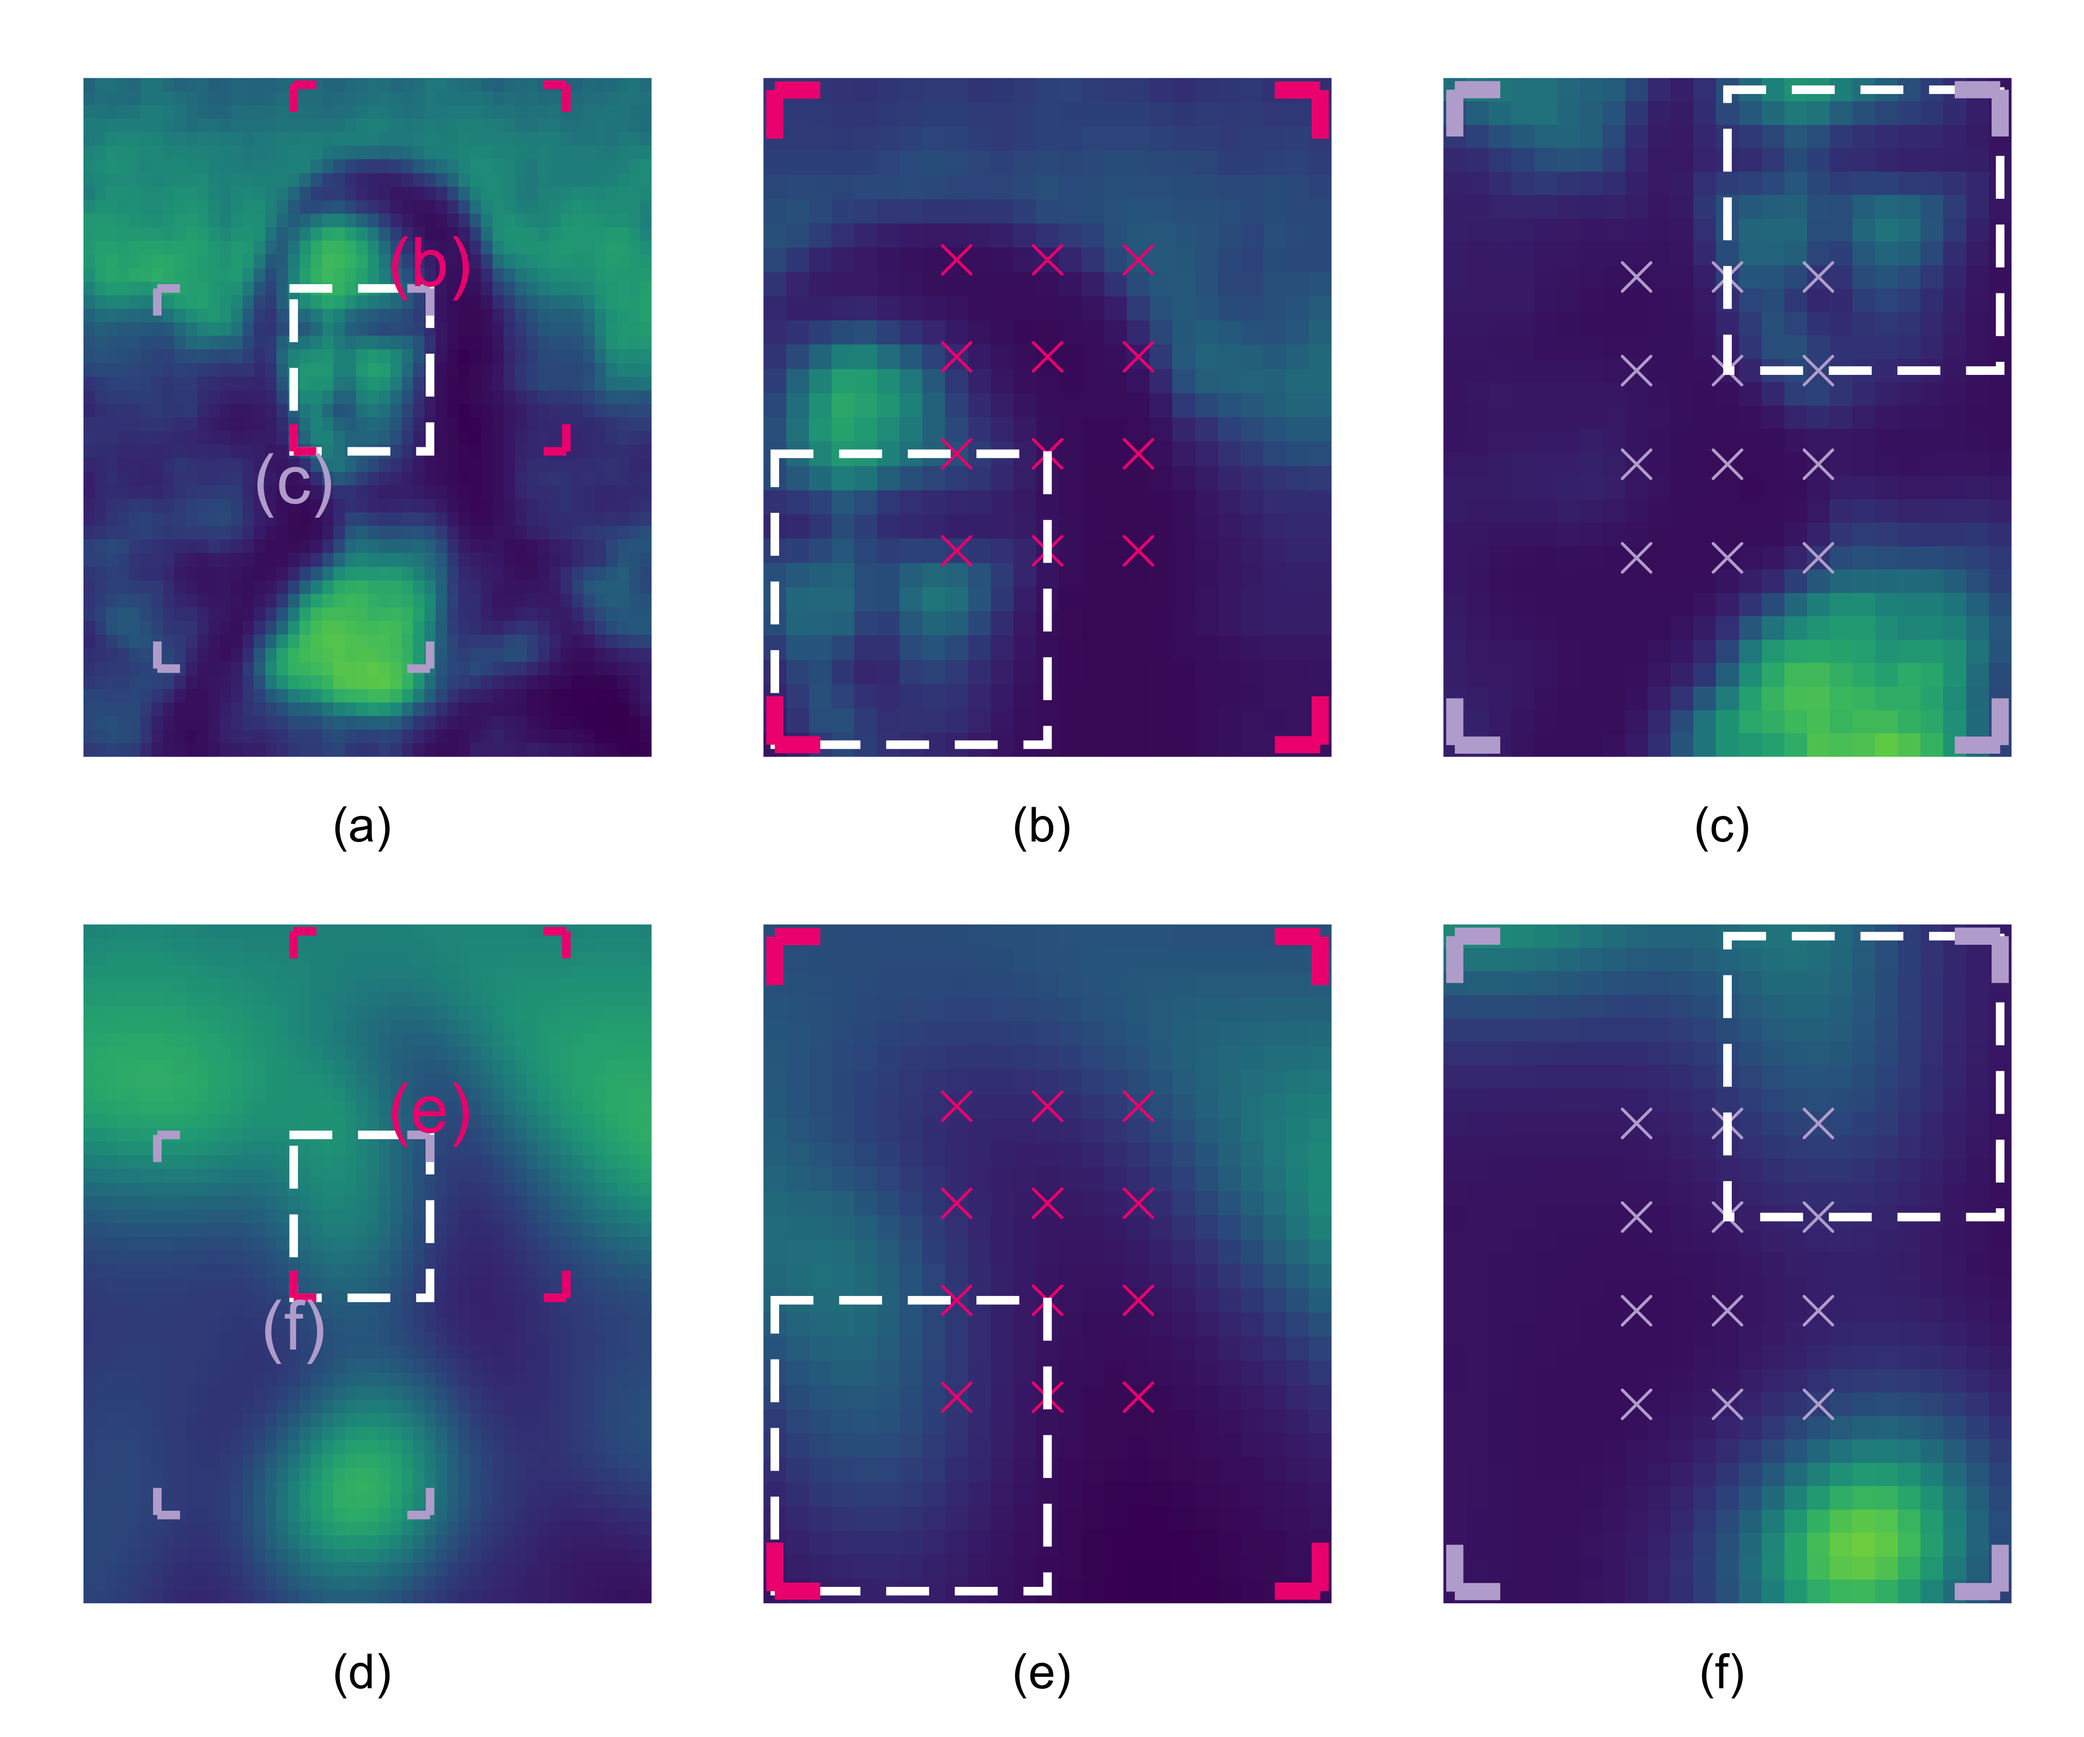
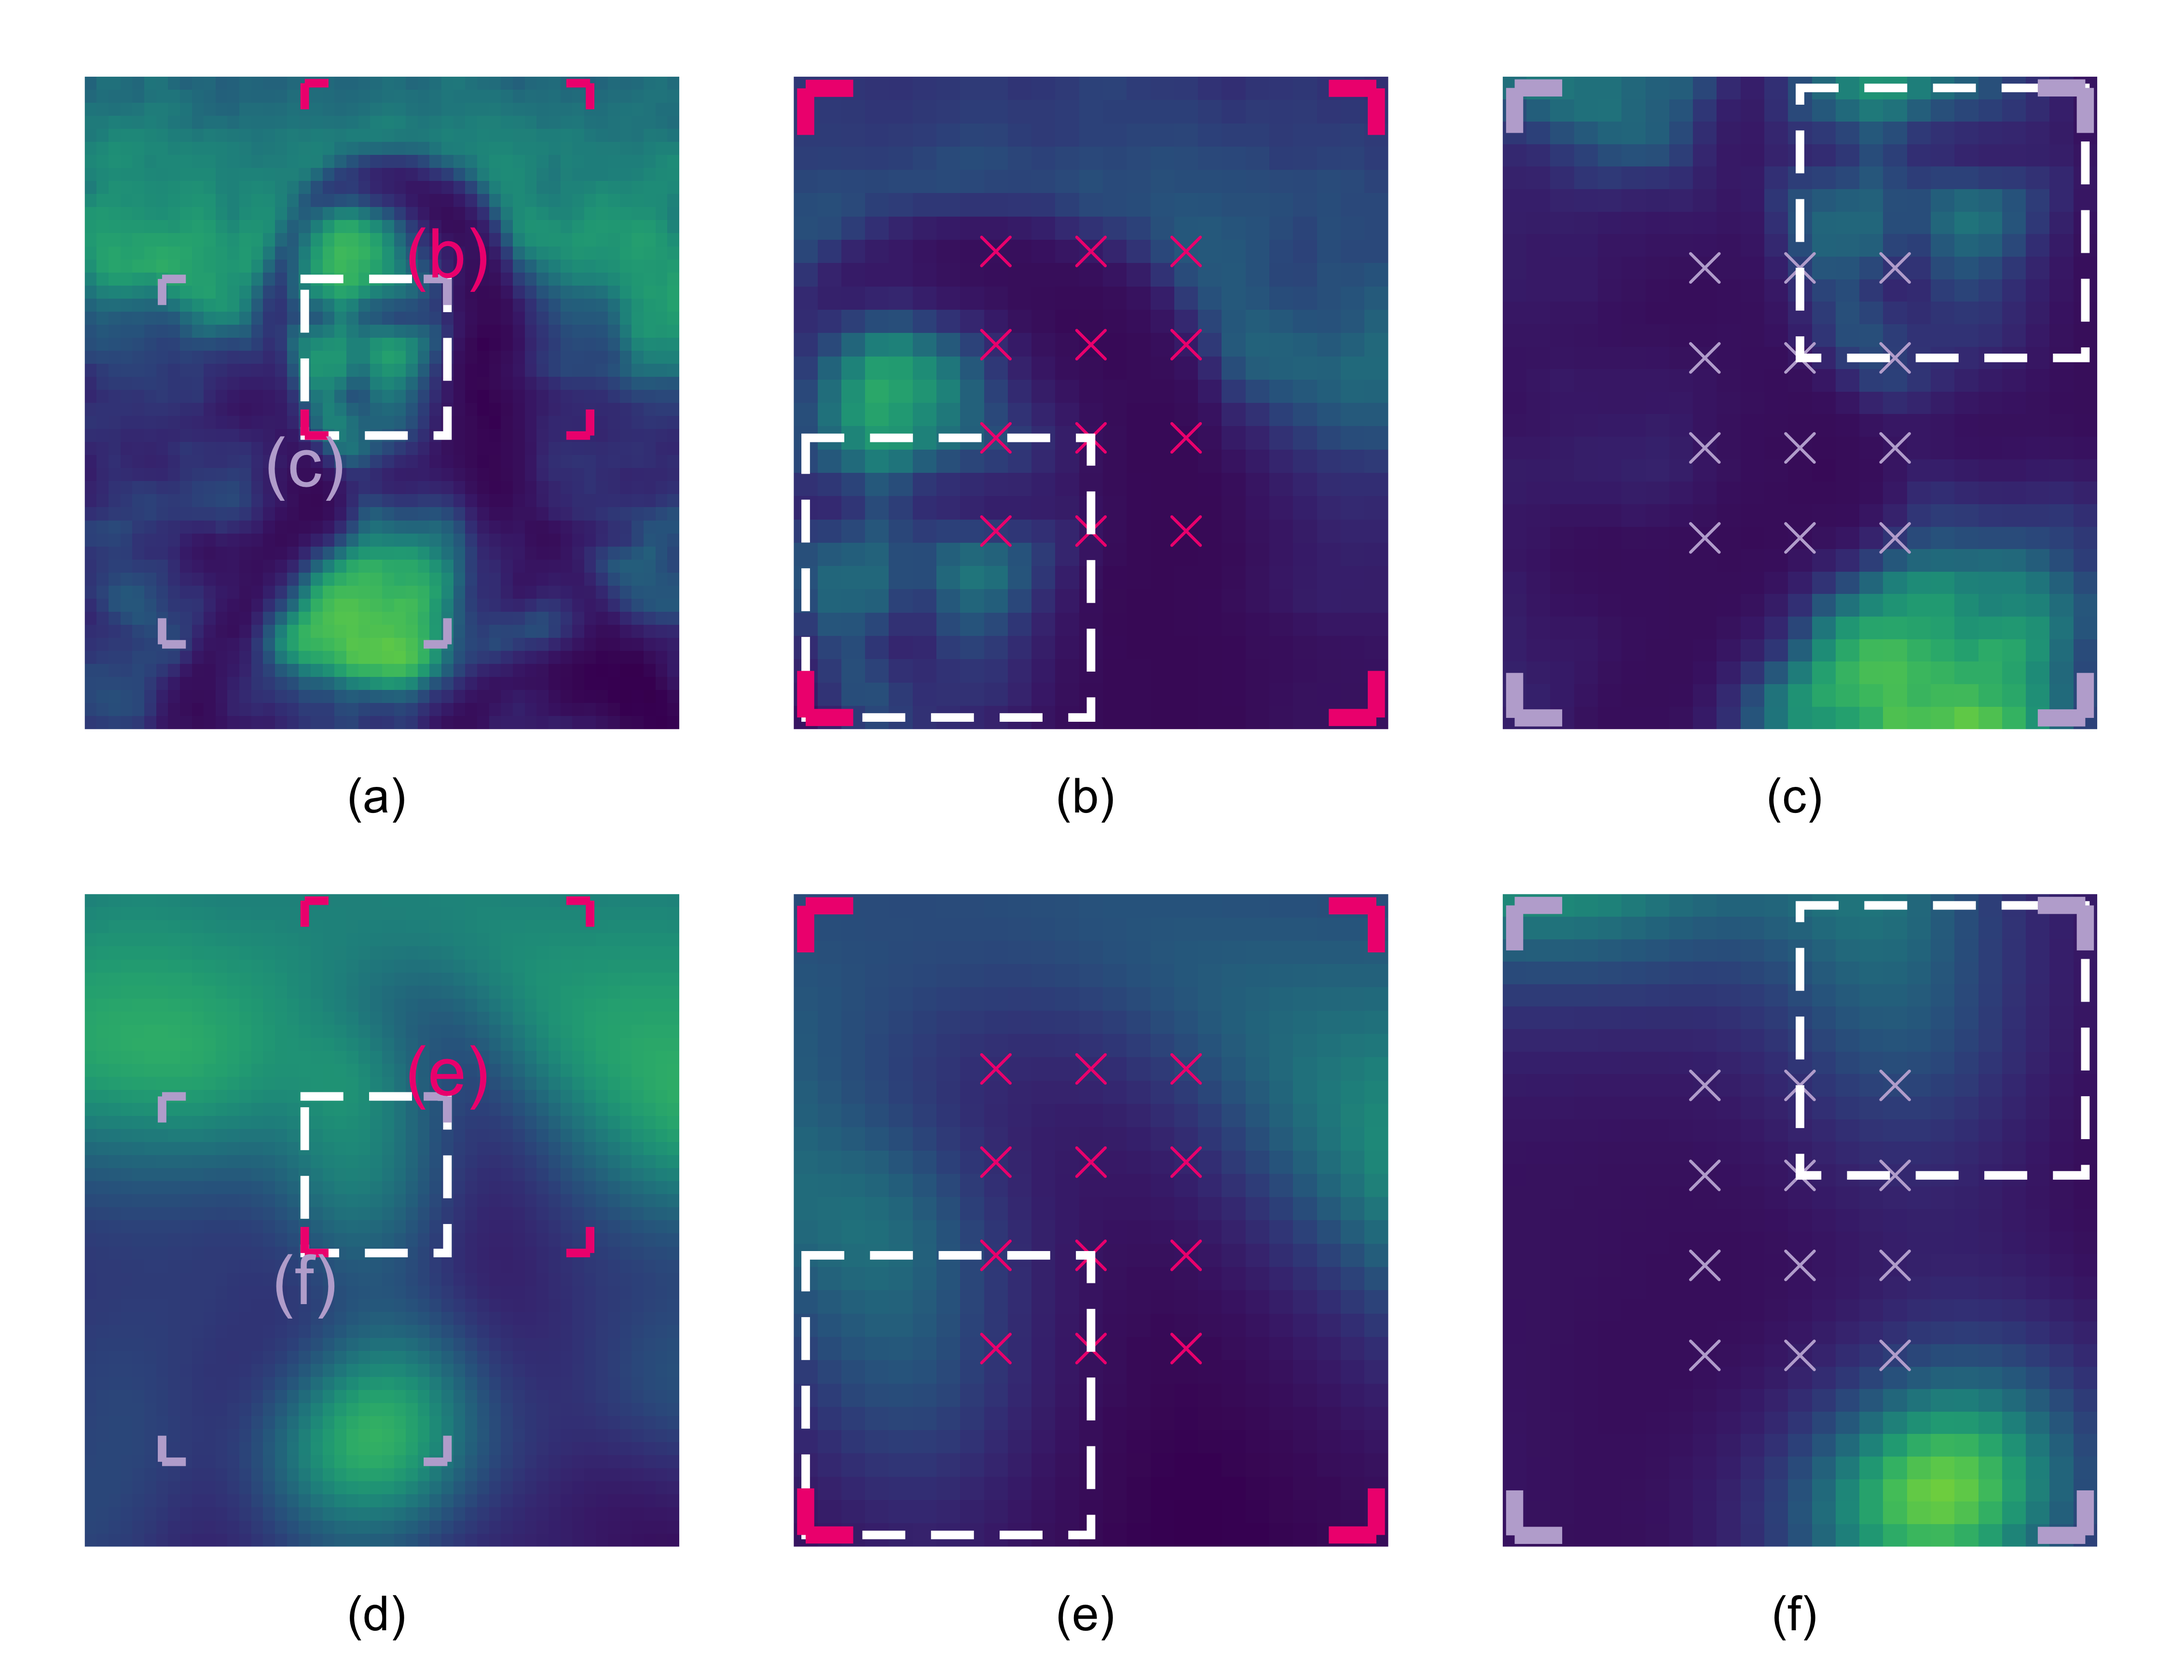
Changes image sizes a bit

diff --git a/paper/mona-lisa.tex b/paper/mona-lisa.tex
@@ -254,15 +254,15 @@ A striking feature of realised AC density surface estimates shown in Figure~\ref
 
 \subsubsection{Expected activity center densities with many activity centers}
 
-Introducing covariates into the density models allowed us to recover features of the Mona Lisa across the entire image, not just near where detectors were located (Figure~\ref{mona_covariates}). Recovery will seldom be this good in reality - we have covariates that are more strongly related to true density than would usually be obtainable. Notwithstanding this, it is true in general that because the expected AC surface depends on the relationship between the covariate and density, the model uses estimates of this relationship obtained where it has lots of information (within the array) to infer density beyond the array. From a single survey\footnote{With such large sample sizes estimates of model coefficients show almost no variability from survey to survey and hence the expected AC surface, which is based on these coefficients, is also nearly identical between surveys. It makes almost no difference whether the results are averaged over repeated simulated surveys or not: the resulting expected AC surface is almost identical in either case.}, with our ``Strong'' covariate ((Figure~\ref{mona_covariates}a-c) we recovered all of the broad features of the Mona Lisa, and many of the fine scale features such as eyes, shading of clouds, {\it etc}. With the ``Moderate'' covariate ((Figure~\ref{mona_covariates}d-f) we recovered broad scale features but no finer details. Importantly, the estimates within the dashed rectangle are almost identical for all array placements - these estimates are not sensitive to where the array is placed.
+Introducing covariates into the density models allowed us to recover features of the Mona Lisa across the entire image, not just near where detectors were located (Figure~\ref{mona_covariates}). Recovery will seldom be this good in reality - we have covariates that are more strongly related to true density than would usually be obtainable. Notwithstanding this, it is true in general that because the expected AC surface depends on the relationship between the covariate and density, the model uses estimates of this relationship obtained where it has lots of information (within the array) to infer density beyond the array. From a single survey\footnote{With such large sample sizes estimates of model coefficients show almost no variability from survey to survey and hence the expected AC surface, which is based on these coefficients, is also nearly identical between surveys. It makes almost no difference whether the results are averaged over repeated simulated surveys or not: the resulting expected AC surfaces are almost identical.}, with our ``Strong'' covariate (Figure~\ref{mona_covariates}a-c) we recovered all of the broad features of the Mona Lisa, and many of the fine scale features such as eyes, shading of clouds, {\it etc}. With the ``Moderate'' covariate (Figure~\ref{mona_covariates}d-f) we recovered broad scale features but no finer details. Importantly, the estimates within the dashed rectangle are almost identical for all array placements - these estimates are not sensitive to where the array is placed.
 
 %With a ``weak'' covariate, the estimated density surface essentially reverted to the mean intensity of the process across the entire region. With a ``locally strong'' covariate -- one that is a good indicator of density in some parts of the study region but poor elsewhere -- the dependency on array location was reintroduced. If the array was located where the covariate was strong, the estimated density surface was accurate in that vicinity. If the array was located where the covariate was weak, then the model estimated no relationship between covariate and density and reverted back to the mean intensity everywhere in the region (Figure \ref{covariates}). 
 
 \begin{figure}[htbp]
 \centering
-\includegraphics[width=1\textwidth]{mona_covariates.png}
-\caption{Expected activity center surfaces estimated from a single survey using a model with density a function of one of two simulated spatially-varying covariates. Plot (a) and (d) show the two covariates, obtained by blurring the true density surface in Figure \ref{mlinputs} to a lesser or greater degree (so as to simulate a ``strong'' and ``moderate'' covariate) respectively. Plots (b) and (c) show the estimated expected AC surfaces using the covariate surface in (a) and a 4$\times$3 array placed at two different locations. The red and grey corner marks in plots (b) and (c) indicate the location of (b) and (c) in plot (a). The white dashed box located in the centre of the Mona Lisa's face in plot (a) is also shown in plots (b) and (c) so that one can easily compare the predictions of the centre of the face from each array. Plots (e) and (f) show similar results for the covariate surface in (d).} 
-\label{covariates}
+\includegraphics[width=0.8\textwidth]{mona_covariates.png}
+\caption{Expected activity center surfaces estimated from a single survey using a model with density a function of one of two simulated spatially-varying covariates. Plot (a) and (d) show the two covariates, obtained by blurring the true density surface in Figure \ref{mlinputs} to a lesser or greater degree, so as to simulate a ``strong'' and ``moderate'' covariate respectively. Plots (b) and (c) show the estimated expected AC surfaces using the covariate surface in (a) and a 4$\times$3 array placed at two different locations, while plots (e) and (f) show similar results for the covariate surface in (d). Plot notation is as for Fig \ref{mona_torch_higheffort}.} 
+\label{mona_covariates}
 \end{figure}
 
 \subsubsection{AC densities with fewer activity centers}
